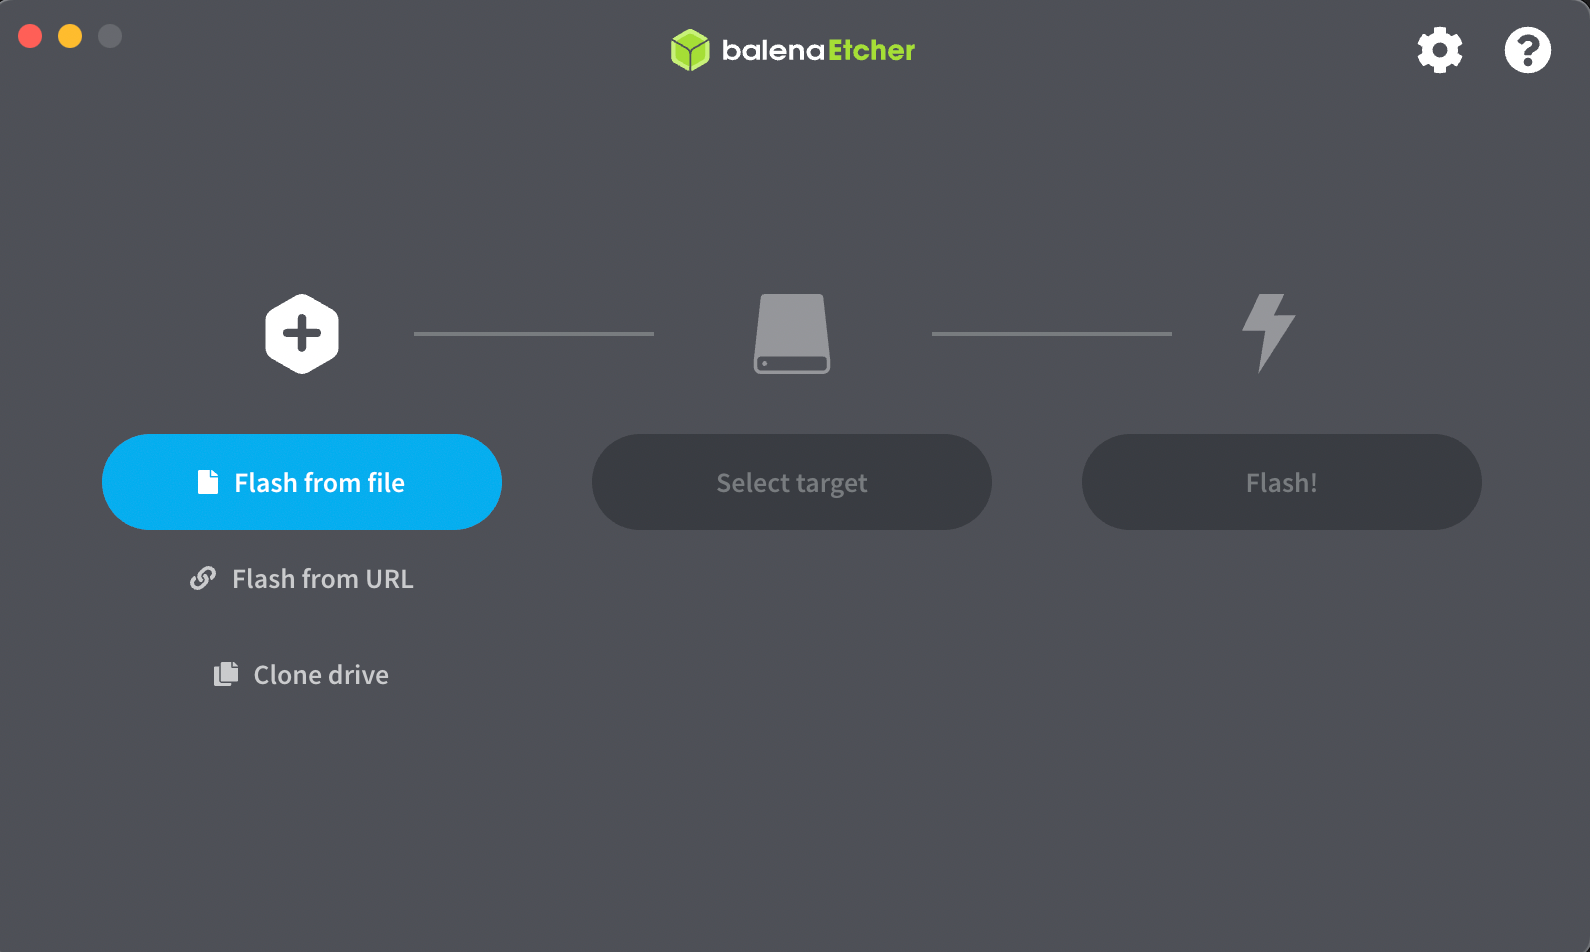
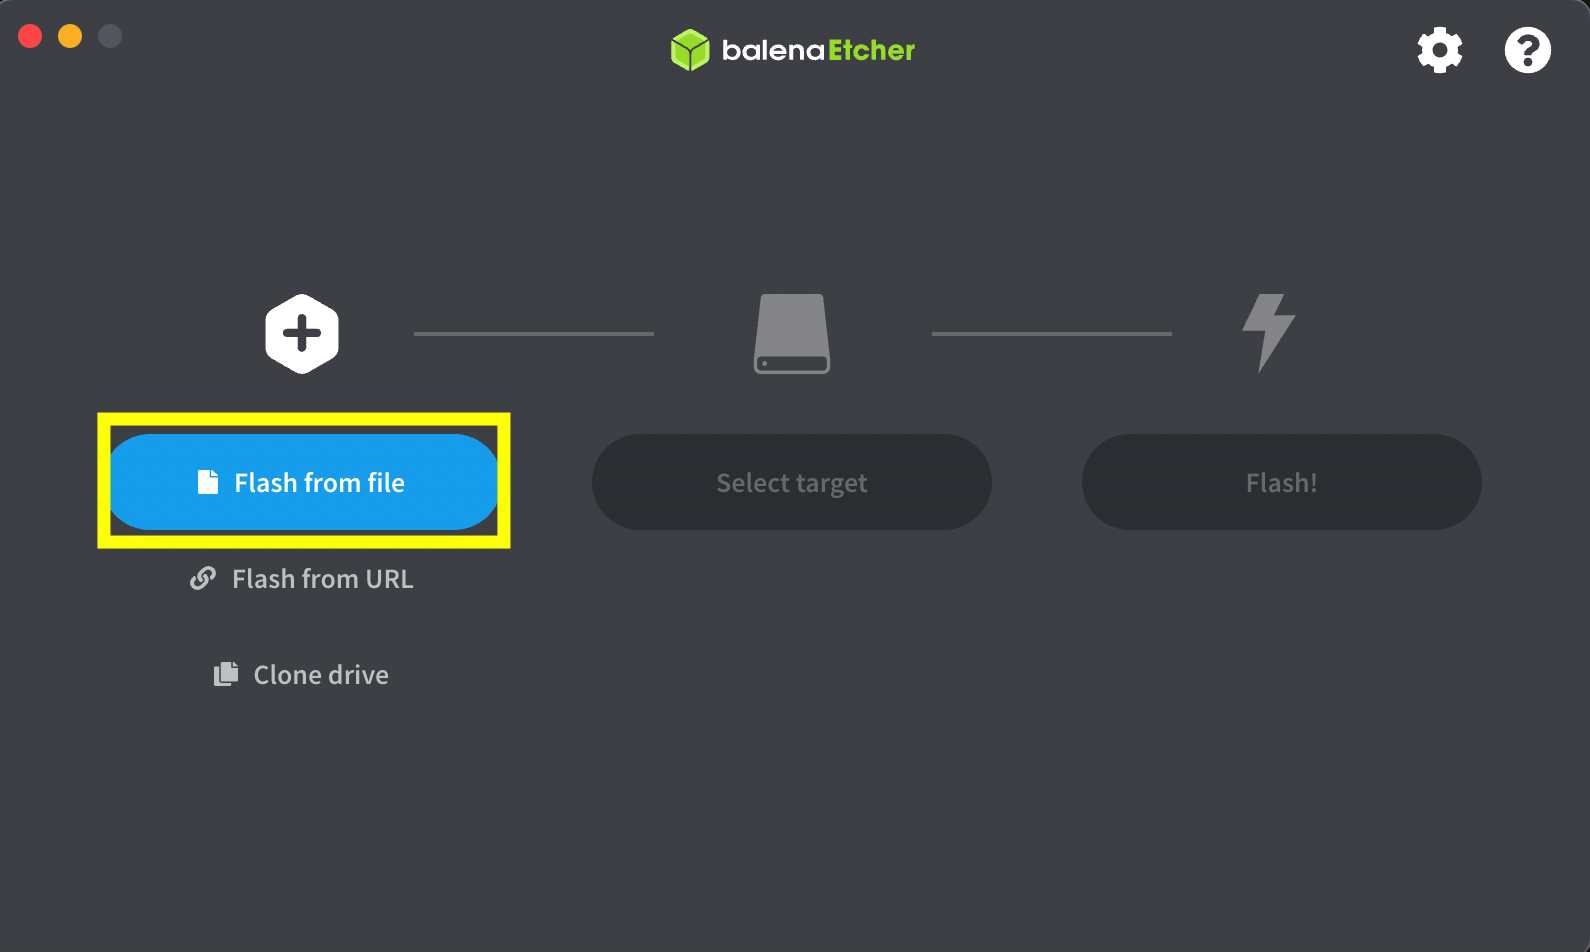
docs (AGW-193): flashing
- added images for removing/inserting sd card
- added annotations on images
- Rewritten some instructions to guide user better

Changed region(s): [[0.0616, 0.4265, 0.339, 0.5788], [0.0, 0.0305, 0.0308, 0.0609]]

diff --git a/docs/user-manual/performers/troubleshooting/update/20211203-flashing.md b/docs/user-manual/performers/troubleshooting/update/20211203-flashing.md
@@ -1,0 +1,132 @@
+---
+title: Updating Your XIMI Unit
+---
+
+# Updating Your XIMI Unit
+
+The following instructions are for updating your XIMI unit.
+
+| Things you will need                                                                                           |
+| -------------------------------------------------------------------------------------------------------------- |
+| Your computer (any operating system)                                                                           |
+| Micro SD Card Reader (To USB)                                                                                  |
+| [Download the latest XIMI software here](#)                                                                    |
+| [Download BalenaEtcher](https://www.balena.io/etcher/) to help you install the software onto the micro SD card |
+
+Here is an example of how a **Micro SD Card Reader** looks like
+
+![sd card adapters](/img/new-user-manual/child/sdcard-6.jpg)
+
+---
+
+## Removing the SD card from XIMI Unit
+
+:::info Important!
+Before you begin updating the XIMI unit, ensure that the unit is shutdown fully and detach the unit from any power sources.
+:::
+
+Turn the XIMI unit to the back. On the right of the unit, you should see an opening that allows you to access the electronics.
+
+![removing sd card](/img/new-user-manual/child/sdcard-back.jpg)
+
+![removing sd card](/img/new-user-manual/child/sdcard-1.jpg)
+
+Upon closer inspection, you should see a **micro SD card** on the back of the board, directly behind the ribbon cable port.
+
+![removing sd card](/img/new-user-manual/child/sdcard-2.jpg)
+
+Gently remove the SD card by pulling it out of the port. You may want to wiggle it a bit before attempting to remove it. Do be careful not to damage the ribbon cable.
+
+![removing sd card](/img/new-user-manual/child/sdcard-3.jpg)
+
+![removing sd card](/img/new-user-manual/child/sdcard-5.jpg)
+
+---
+
+## Using the Reader
+
+Insert the micro SD card into the port as shown below.
+
+:::warning Important!
+Do not force the SD card into the port as it may cause damage. If you have trouble inserting the card into the port, check if the orientation is correct first as the card reader in the image may not be the same as yours.
+:::
+
+![sd card adapter](/img/new-user-manual/child/sdcard-9.jpg)
+
+![sd card adapter](/img/new-user-manual/child/sdcard-10.jpg)
+
+Once that is done, insert the reader into your computer. Your computer should be able to read it.
+
+![sd card adapter](/img/new-user-manual/child/sdcard-11.jpg)
+
+---
+
+## Using BalenaEtcher
+
+[BalenaEtcher](https://www.balena.io/etcher/) is a tool that you can use to flash SD cards. Download the program before you begin. You should also have the [latest XIMI software](#) downloaded onto your computer.
+
+Launching the program, this is what you will see.
+
+![etcher main](/img/etcher/etcher-main.png)
+
+Click `Flash from file` and select the **downloaded XIMI software file** which should be a `.iso` file. (The below image uses `raspi.iso` as an example)
+
+![choosing file](/img/etcher/flash-from-file.png)
+
+![choosing file](/img/etcher/choosing-file.png)
+
+Next, select the target drive, which is the **micro SD card** named `Generic STORAGE DEVICE Media`. (Side note: This should be renamed for users to better identify the device)
+
+:::danger DANGER
+Check that you have selected the correct drives. Failing to do so may overwrite your computer's disk.
+:::
+
+![select target](/img/etcher/select-target.png)
+
+Click `Select (1)` to continue.
+
+![target selected](/img/etcher/target-selected.png)
+
+Finally, click `Flash!` to begin flashing.
+
+![flash](/img/etcher/flash.png)
+
+Enter your computer's administrative password and allow the program to use the drive, if prompted. (image below is just an example)
+
+![admin privileges](/img/etcher/admin.png)
+
+The flashing will begin. It will take a few minutes. Go grab a drink!
+
+![flashing](/img/etcher/flashing.png)
+
+Once it's done, you can close the program. Unmount and remove the **micro SD card reader** from your computer.
+
+![finished](/img/etcher/finished.png)
+
+---
+
+## Re-inserting The Micro SD Card
+
+Once you have removed the micro SD card from your computer, you can insert it back onto the XIMI unit. Orientate the micro SD card like the image below and insert it gently into the micro SD card port on the XIMI unit.
+
+:::warning Important!
+Do not force the SD card into the port as it may cause damage. If you have trouble inserting the card into the port, check if the orientation is correct first.
+:::
+
+![sd card adapter](/img/new-user-manual/child/sdcard-12.jpg)
+
+![sd card adapter](/img/new-user-manual/child/sdcard-13.jpg)
+
+Ensure it is properly inserted by pushing it when it enters the slot.
+
+![sd card adapter](/img/new-user-manual/child/sdcard-14.jpg)
+
+---
+
+## Testing The Update
+
+Plug the power back onto your XIMI unit after all the steps above. Your XIMI unit should boot up normally.
+
+![boot up](/img/new-user-manual/child/8-power.jpg)
+
+You can now enjoy using the latest features we have provided for you!

diff --git a/docs/user-manual/performers/3-audio.md b/docs/user-manual/performers/3-audio.md
@@ -19,7 +19,7 @@ We recommend going with option 1 or 2 for a reliable setup.
 
 The most straightforward solution to get audio input working is to plug in a **USB Audio Adapter** (also known as USB Sound Card). Note that **there are different types of audio jacks which may or may not be compatible to certain types of USB Audio Adapters**
 
-See [Audio Jack Differences](/docs/user-manual/performers/troubleshooting/trs-trrs-differences) if you have problems setting up.
+See [Audio Jack Differences](/docs/user-manual/performers/troubleshooting/audio/trs-trrs-differences) if you have problems setting up.
 
 Here are some examples of such USB audio adapters:
 
@@ -44,13 +44,13 @@ Next, plug the USB end of the Adapter onto any USB port on the XIMI unit.
 
 ## Setting Active Audio Device
 
-If you have multiple audio devices connected and need to configure it, please visit [Audio Configuration](/docs/user-manual/performers/troubleshooting/audio-config) to configure your device.
+If you have multiple audio devices connected and need to configure it, please visit [Audio Configuration](/docs/user-manual/performers/troubleshooting/audio/audio-config) to configure your device.
 
 ---
 
 ## Bluetooth Audio
 
-To get your Bluetooth earphones/headphones to work with the XIMI Child Node, first [install the Bluetooth software](/docs/user-manual/performers/troubleshooting/installing-bluetooth) if you don't see this Bluetooth icon on the top-right corner of your screen.
+To get your Bluetooth earphones/headphones to work with the XIMI Child Node, first [install the Bluetooth software](/docs/user-manual/performers/troubleshooting/bluetooth/installing-bluetooth) if you don't see this Bluetooth icon on the top-right corner of your screen.
 
 ![Bluetooth icon](/img/new-user-manual/child-raspi/bluetooth-icon.png)
 

diff --git a/docs/user-manual/performers/6-lens-setup.md b/docs/user-manual/performers/6-lens-setup.md
@@ -20,7 +20,7 @@ To test your camera, tap on the **Test Cam** button. You should see the image yo
 
 ## Lens Adjustment: Exposure and Focus
 
-If you see a blank image, ensure that the lens cap is taken off. If the image is still blank, consider this troubleshooting solution: [Camera fails to turn on after OS upgrade](/docs/user-manual/performers/troubleshooting/camera-doesnt-turn-on-after-os-upgrade).
+If you see a blank image, ensure that the lens cap is taken off. If the image is still blank, consider this troubleshooting solution: [Camera fails to turn on after OS upgrade](/docs/user-manual/performers/troubleshooting/camera/camera-doesnt-turn-on-after-os-upgrade).
 
 The camera lens should come with two dials: one for **focusing**, and one for controlling the **exposure**. Due to the complexity of how the lens work, it is recommended to follow through the next set of instructions step-by-step to avoid confusion.
 
